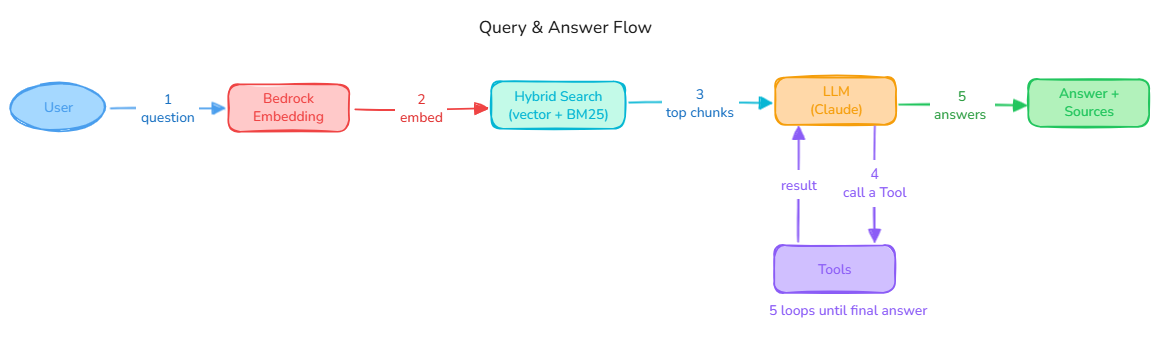
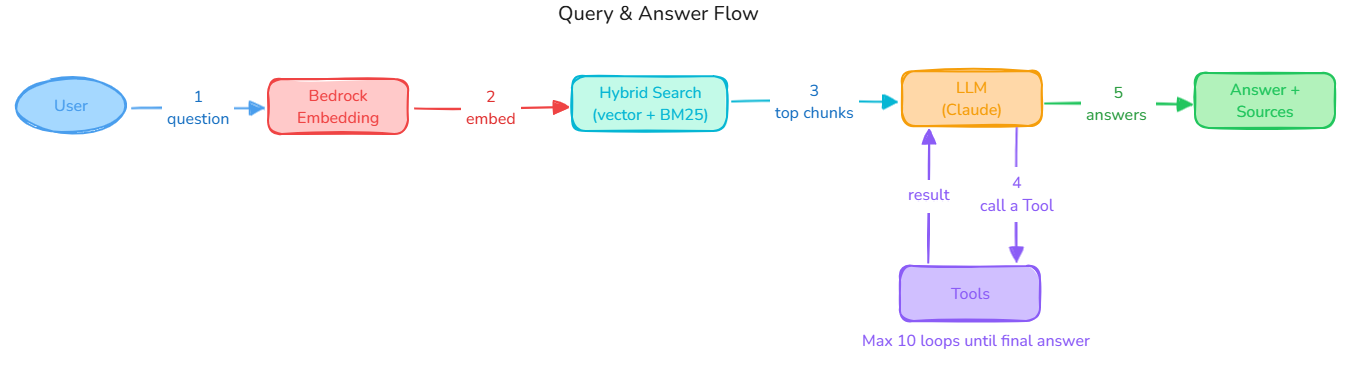
fix: increased max iteration loop for LLM query

diff --git a/terraform/layers/backend/src/lambda_functions/query_document/query_document.py b/terraform/layers/backend/src/lambda_functions/query_document/query_document.py
@@ -19,6 +19,9 @@ TEMPERATURE=float(os.environ.get("TEMPERATURE", "0.7"))
 MAX_TOKENS=int(os.environ.get("LLM_MAX_TOKENS", "2000"))
 EMBEDDING_MODEL=os.environ.get("EMBEDDING_MODEL", "amazon.titan-embed-image-v1")
 MIN_RELEVANCE_SCORE=float(os.environ.get("MIN_RELEVANCE_SCORE", "0.4"))
+MAX_TOOL_ITERATIONS = 10
+RRF_K = 60  # RRF constant: higher value = smaller score gap between adjacent ranks.
+# 60 is the standard default from the original RRF paper.
 
 # ---------- AWS clients ----------
 bedrock_runtime = boto3.client("bedrock-runtime", region_name=REGION)
@@ -88,9 +91,6 @@ def create_embedding(text):
     except Exception as e:
         print(f"Error creating embedding: {str(e)}")
         raise
-
-RRF_K = 60  # RRF constant: higher value = smaller score gap between adjacent ranks.
-            # 60 is the standard default from the original RRF paper.
 
 def search_similar_chunks(question_embedding, question_text, user_id, document_id=None, max_results=MAX_RESULTS):
     """Hybrid search: combines semantic (pgvector cosine) and lexical (BM25/FTS) retrieval
@@ -168,8 +168,6 @@ def search_similar_chunks(question_embedding, question_text, user_id, document_i
     except Exception as e:
         print(f"Error in hybrid search: {str(e)}")
         raise
-
-MAX_TOOL_ITERATIONS = 5
 
 def run_agentic_loop(question, context_chunks, history=None, model_id=BEDROCK_MODEL_INFERENCE_PROFILE_ARN):
     context = "\n\n".join([f"[Chunk {i+1}]\n{chunk['text']}" for i, chunk in enumerate(context_chunks)])

diff --git a/README.md b/README.md
@@ -31,14 +31,14 @@ Built on AWS Bedrock, PostgreSQL + pgvector, and React, using **Agentic RAG** to
 
 ## What Was Already Built
 
-Prior to the technical assignment, the following has already been built:
+Prior to the technical assignment, I have already built the following:
 
 - **React + TypeScript** frontend with AWS Cognito (Google OAuth) authentication
 - File upload flow via a pre-built Terraform module: [infra-file-uploader](https://github.com/lrasata/infra-file-uploader)
 - Document ingestion Lambda (**Python**): extracts text, creates fixed-size chunks, stores vectors in PostgreSQL (no multimodal support)
 - Query Lambda (**Python**): embeds the question, retrieves similar chunks with cosine search, passes them to an LLM
 
-## What I Built
+## What I Built Additionally 
 
 - **Multimodal embeddings:** switched to Amazon Titan Multimodal Embeddings
 - **Chunking strategy per format:** PDF, Markdown, DOCX, and plain text each use a different chunking approach suited to their structure
@@ -190,7 +190,7 @@ converse(system prompt + document context + history + tool definitions)
       ├── end_turn  →  return answer ✓
       │
       └── tool_use  →  execute tool(s)  →  append results  →  converse again
-                        (repeats up to MAX_TOOL_ITERATIONS = 5)
+                        (repeats up to MAX_TOOL_ITERATIONS = 10)
 ```
 
 **The LLM decides autonomously whether to call a tool or answer directly**. If the loop hits five iterations without `end_turn`, the Lambda returns a 500.
